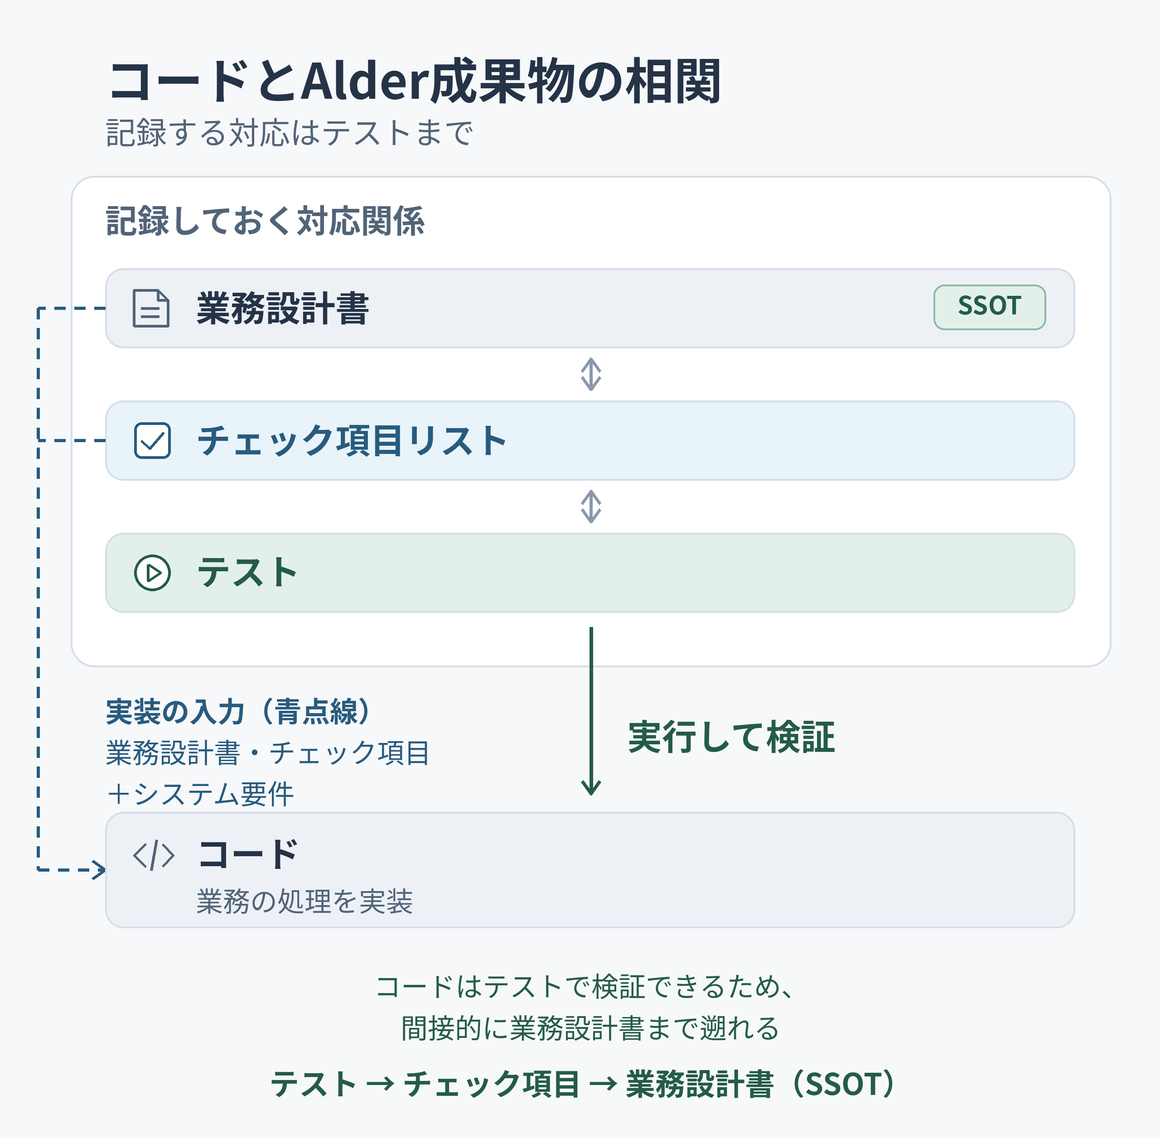
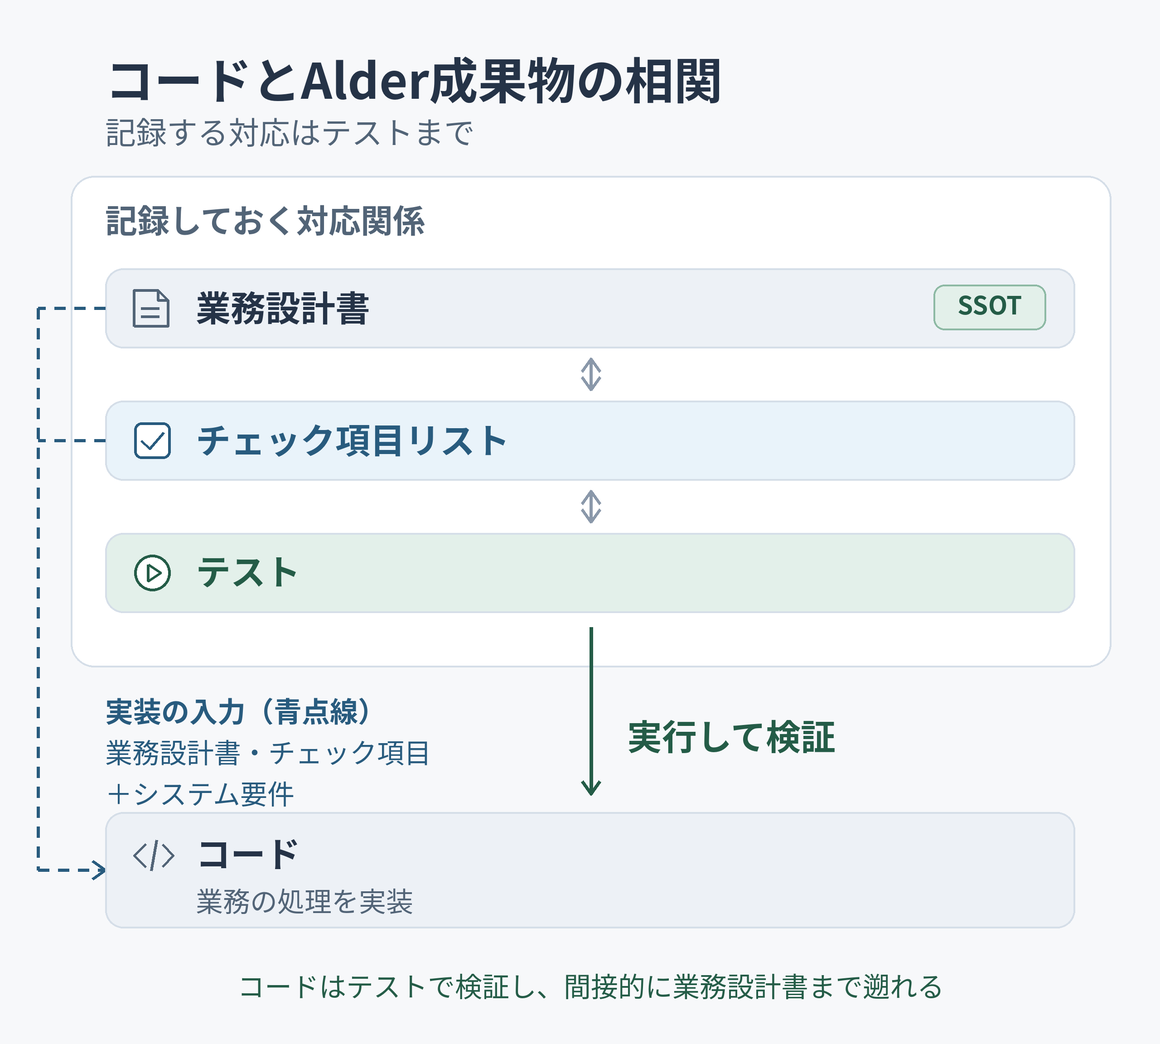
docs: condense code trace caption to one line

diff --git a/docs/images/traceability/render.py b/docs/images/traceability/render.py
@@ -239,7 +239,7 @@ def model_ja():
 
 
 def execution_ja():
-    c = JapaneseCanvas(628)
+    c = JapaneseCanvas(576)
     c.title("コードとAlder成果物の相関", "記録する対応はテストまで")
     c.rect(39, 97, 574, 271, radius=13, width=1.1)
     c.text(58, 113, "記録しておく対応関係", 17.65, True, "muted", max_width=535)
@@ -275,12 +275,8 @@ def execution_ja():
     ja_icon(c, "code", 74, 462)
     c.text(108, 463, "コード", 19.3, True)
     c.text(108, 490, "業務の処理を実装", 14.9, color="muted", max_width=465)
-    c.text(326, 537, "コードはテストで検証できるため、", 14.9,
+    c.text(326, 537, "コードはテストで検証し、間接的に業務設計書まで遡れる", 14.9,
            color="green_ink", center=True, max_width=535)
-    c.text(326, 560, "間接的に業務設計書まで遡れる", 14.9,
-           color="green_ink", center=True, max_width=535)
-    c.text(326, 590, "テスト → チェック項目 → 業務設計書（SSOT）", 16.55, True,
-           "green_ink", center=True, max_width=535)
     return c
 
 
